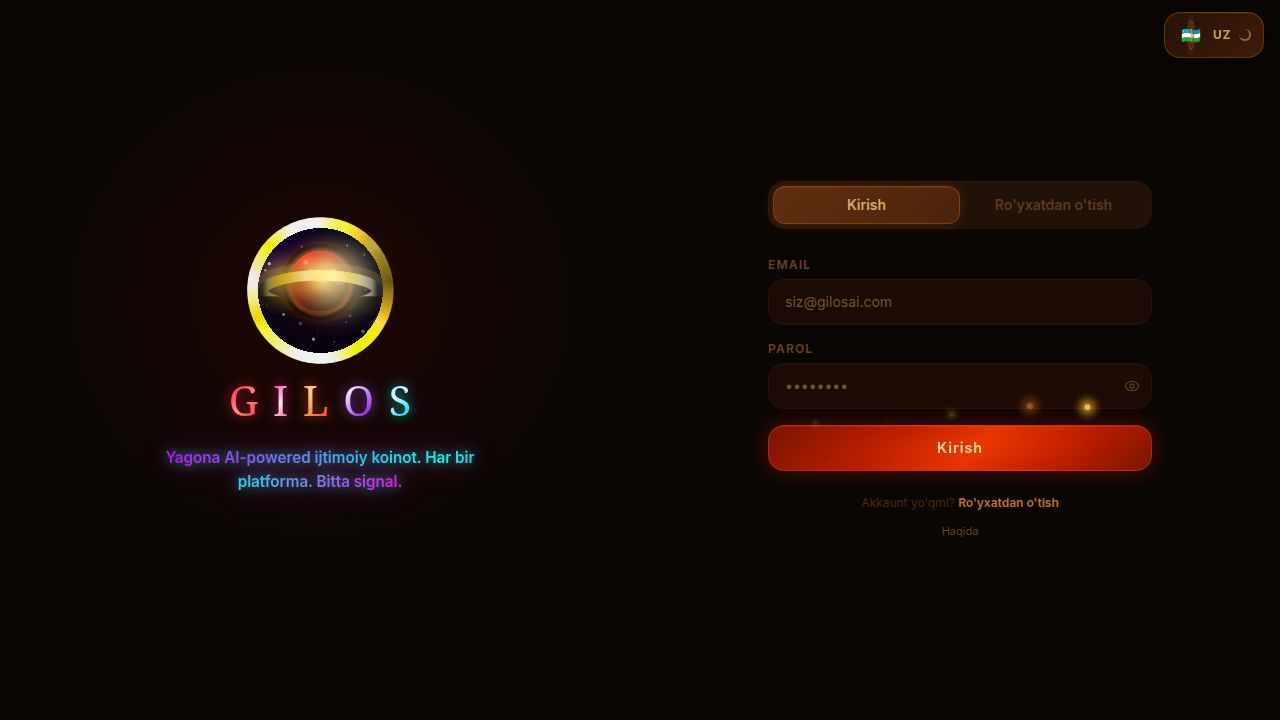
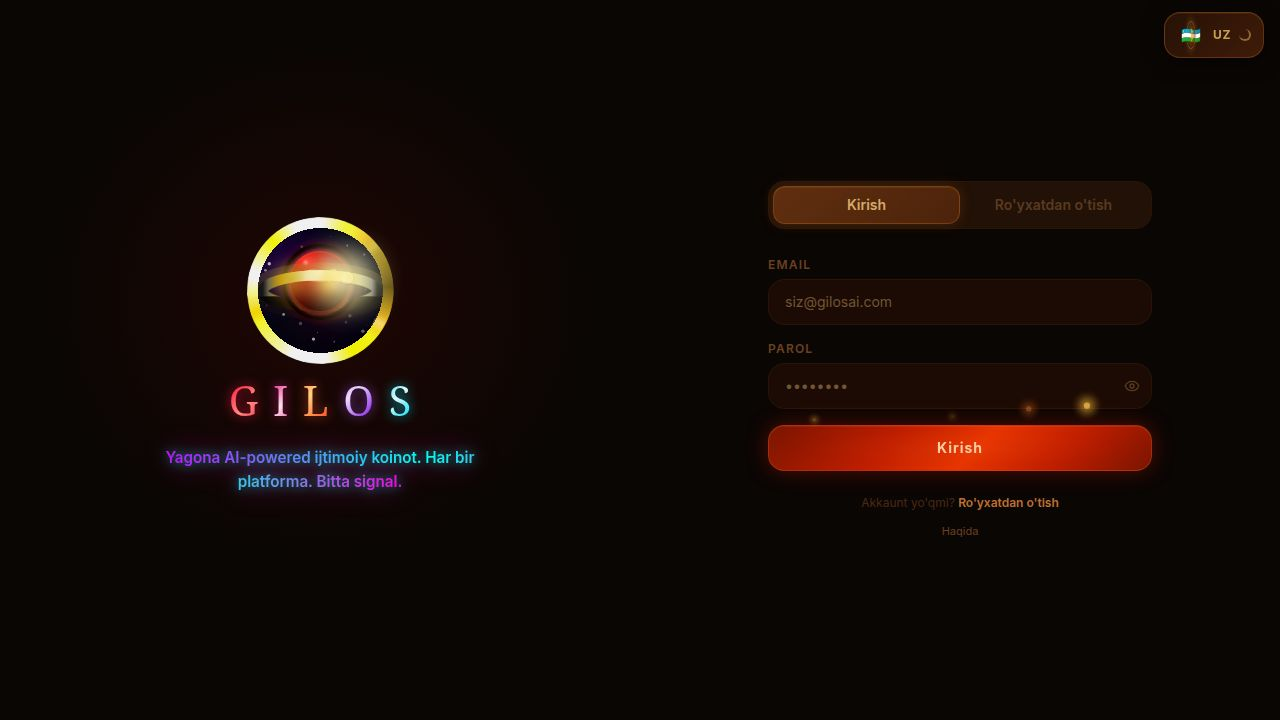
Update website's language translations for about section
Correctly translate the 'about' section content in en.json and update the translation cache version to ensure all 100 languages reflect the English changes.

Replit-Commit-Author: Agent
Replit-Commit-Session-Id: e3607cdc-ba45-4185-9ec8-f2380b94d102
Replit-Commit-Checkpoint-Type: full_checkpoint
Replit-Commit-Event-Id: e958260e-f31c-4372-96f4-1579dcb8fac8
Replit-Commit-Screenshot-Url: https://storage.googleapis.com/screenshot-production-us-central1/91d8d799-0a2a-4851-a440-527630a45e2d/e3607cdc-ba45-4185-9ec8-f2380b94d102/GRAIA1s
Replit-Helium-Checkpoint-Created: true

Changed region(s): [[0.1875, 0.3056, 0.3125, 0.4583], [0.7812, 0.55, 0.8125, 0.5806], [0.25, 0.4889, 0.2812, 0.5194]]

diff --git a/artifacts/nexus/src/lib/i18n.ts b/artifacts/nexus/src/lib/i18n.ts
@@ -153,7 +153,7 @@ function unflattenObj(flat: Record<string, string>): Record<string, unknown> {
   }, {} as Record<string, unknown>);
 }
 
-const TRANS_CACHE_VER = "v4";
+const TRANS_CACHE_VER = "v5";
 const BATCH_SIZE = 100;
 
 // ── resources ──────────────────────────────────────────────────────────────